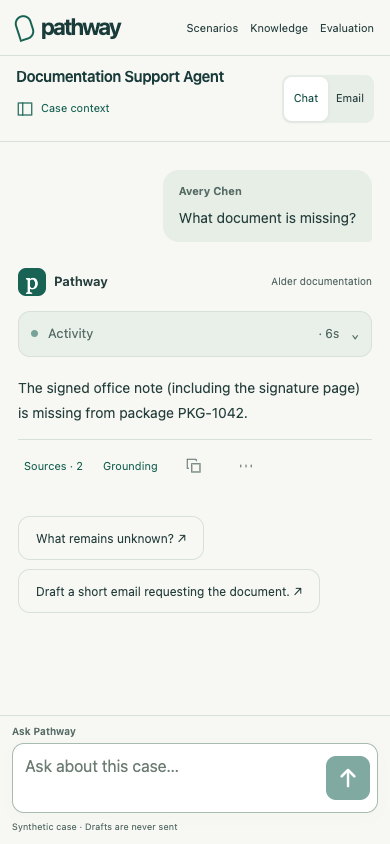
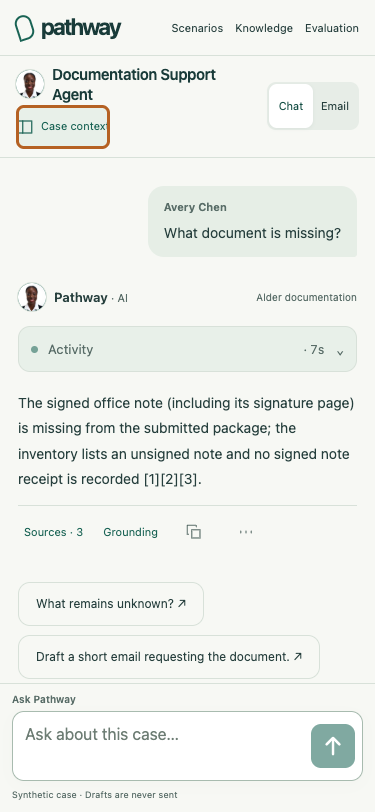
Explain Pathway experiment and document current agent interface

diff --git a/README.md b/README.md
@@ -2,9 +2,17 @@
 
 **Support that knows its sources.**
 
-Pathway is an AI support agent for non-clinical pharmaceutical access and patient-support work. Choose a synthetic case, ask a question, prepare an email or case briefing, and inspect the knowledge behind the answer.
+Pathway is a RAG chatbot for non-clinical pharmaceutical access and patient-support work. Choose a fictional case, ask a question, prepare an email or case briefing, and inspect the documents behind the answer.
 
 **[Try the live demo](https://case-resolution-frontend.onrender.com/)** · [Explore the knowledge](https://case-resolution-frontend.onrender.com/#knowledge) · [View evaluation](https://case-resolution-frontend.onrender.com/#evaluation)
+
+## Why I built Pathway
+
+I kept seeing avatar-based AI agents marketed with expensive licenses, and I wanted to try building one myself. For this experiment, I started with a chatbot that uses **retrieval-augmented generation (RAG)**: it finds relevant passages in a selected knowledge base, gives them to the language model, and shows the sources alongside the answer.
+
+I try to learn a different tool with each project. Here, I chose **Render** to host the frontend and application server, and **Supabase** for PostgreSQL and pgvector. Building and deploying Pathway gave me a way to learn how those pieces work together.
+
+The three support roles have illustrative stock portraits. The interaction happens through Chat and Email, with source inspection and drafts for review. The people in the portraits are not staff or endorsers; [photo credits and licensing](docs/stock-portraits.md) are included.
 
 ![Pathway’s desktop workspace, with the user’s role, case snapshot, blocker and available knowledge alongside a chat answer and its sources](docs/screenshots/pathway-workspace.png)
 
@@ -36,11 +44,13 @@ The sidebar describes the scenario’s recorded snapshot. Conversation text does
 
 <img src="docs/screenshots/pathway-mobile.png" alt="Mobile conversation with an anchored composer" width="320"> <img src="docs/screenshots/pathway-context.png" alt="Mobile case-context drawer showing the role, recorded case, blocker and available knowledge" width="320">
 
-Screenshots show the public demo with a saved synthetic answer.
+Conversation screenshots show the current interface replaying retained synthetic answers locally, without new model calls. The scenario cards below were captured from the public demo. [Capture details](docs/screenshots/README.md).
 
 </details>
 
 ## Three scenarios
+
+![Three Pathway AI support roles with stock portraits: documentation support, coverage and access, and specialty pharmacy fulfillment](docs/screenshots/pathway-agents.png)
 
 | Scenario | Your role | Recorded blocker | Useful output |
 | --- | --- | --- | --- |
@@ -48,7 +58,7 @@ Screenshots show the public demo with a saved synthetic answer.
 | **Coverage & access** · ACC-2086 | Morgan Lee, field reimbursement manager | An unreadable Juniper Plan member identifier blocks benefit verification. | An HCP-office briefing or follow-up email. |
 | **Specialty pharmacy fulfillment** · FUL-3091 | Jordan Rivera, patient-support case manager | The consent signature is missing; intake is recorded, but no dispense release or carrier handoff is recorded. | A patient-friendly administrative status message. |
 
-All people, organizations, plans, cases and documents are fictional. Each Knowledge Pack contains 14 documents: 12 applicable sources, one superseded source and one record for another case. The complete corpus contains **42 documents and 110 passages**, including practical checklists, troubleshooting, handoff worksheets and communication examples. The guides explain fictional procedures without adding events to the recorded cases. Excluded documents are inspectable in the knowledge browser but cannot support a new answer. See the [Knowledge Pack guide and verification](docs/knowledge-packs.md).
+All case identities, organizations, plans, cases and documents are fictional. Each Knowledge Pack contains 14 documents: 12 applicable sources, one superseded source and one record for another case. The complete corpus contains **42 documents and 110 passages**, including practical checklists, troubleshooting, handoff worksheets and communication examples. The guides explain fictional procedures without adding events to the recorded cases. Excluded documents are inspectable in the knowledge browser but cannot support a new answer. See the [Knowledge Pack guide and verification](docs/knowledge-packs.md).
 
 ## Try a conversation
 

diff --git a/docs/screenshots/README.md b/docs/screenshots/README.md
@@ -1,5 +1,19 @@
 # Verified application screenshots
 
+## Current Pathway interface · October 9, 2026
+
+These browser captures show the web assets from release `080145a0eae678a1ce4faa4056163e29c0208009`, including the three illustrative agent portraits, compact conversation workspace, and Knowledge Pack version 1.1.
+
+- `pathway-agents.png` (1160 × 523): the three scenario cards, captured directly from the [public frontend](https://case-resolution-frontend.onrender.com/).
+- `pathway-workspace.png` (1440 × 900): documentation-support chat with recorded case context and a sourced answer.
+- `pathway-sources.png` (1440 × 900): the same answer with its supporting passages expanded.
+- `pathway-activity.png` (1440 × 900): expanded application activity above the answer.
+- `pathway-mobile.png` and `pathway-context.png` (375 × 812): the mobile conversation and case-context drawer.
+
+Conversation views were captured from the current web assets running locally against retained synthetic answer fixtures. They demonstrate the interface, not a new live-model evaluation. Activity timings belong to the replay and are not production latency measurements. No model calls were made for these captures. Images were visually inspected and copied without pixel edits. The portfolio reuses the scenario-card and workspace images with the same provenance.
+
+Portrait photography is credited in [stock-portraits.md](../stock-portraits.md). The photographed people illustrate AI roles; they are not case participants, staff or endorsers.
+
 ## Public deployment — September 8, 2026
 
 The `hosted-20260908-*.png` images were captured from [the live Pathway Agent application](https://case-resolution-agent.onrender.com), deployed from commit `22db28a290a7b5a8e84e2e0d0e56c07105d2c65c`. These are actual public HTTPS browser captures, visually inspected after exercising the application against its durable synthetic state.
